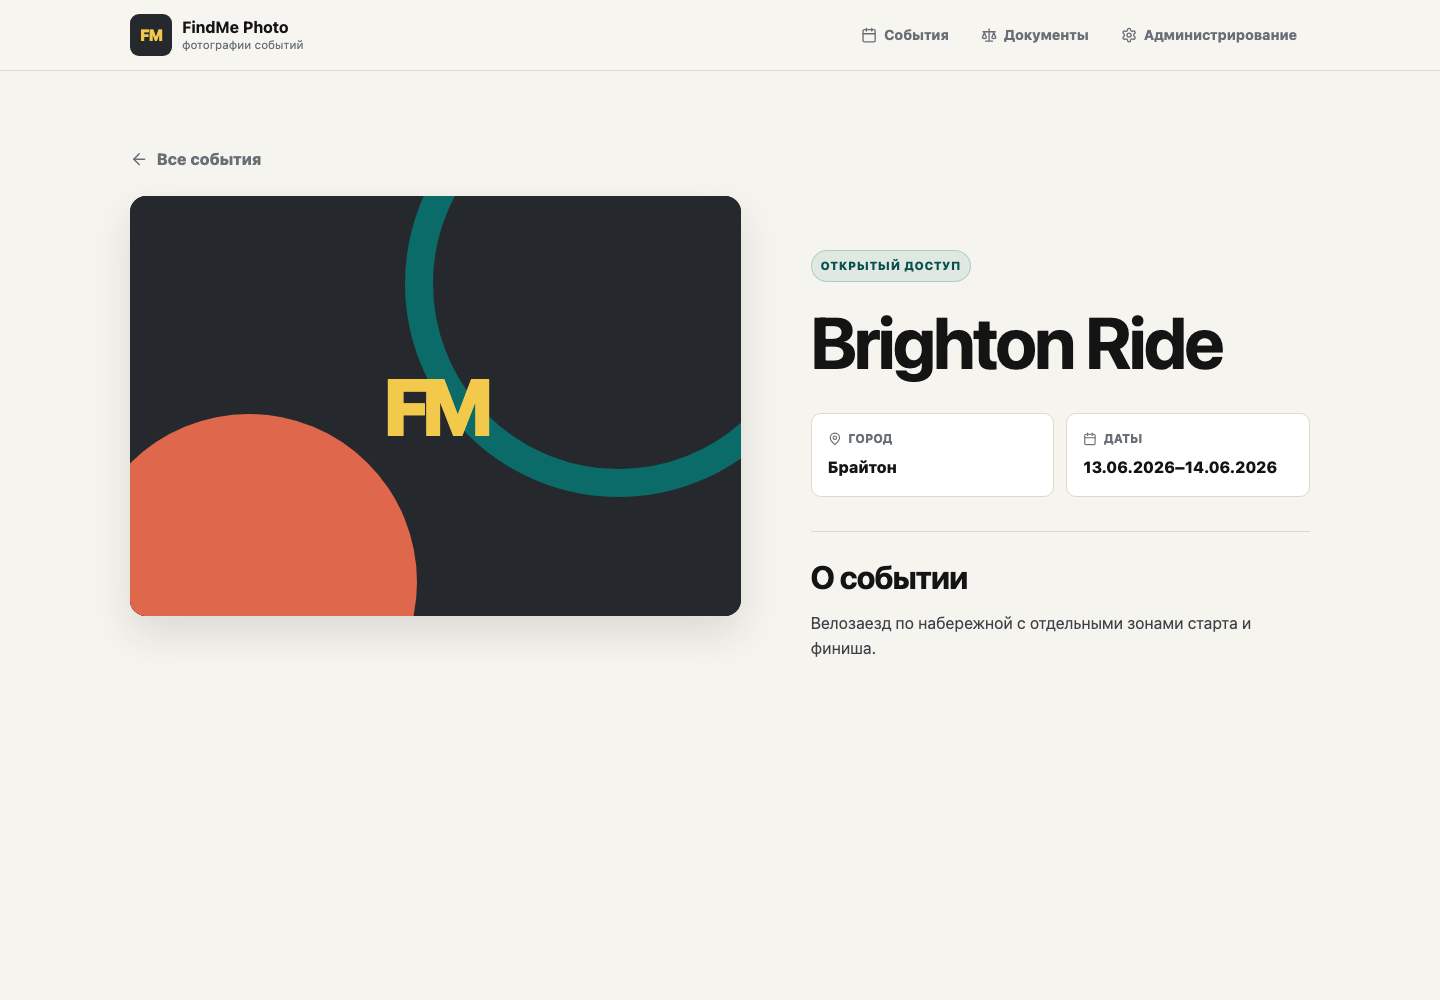
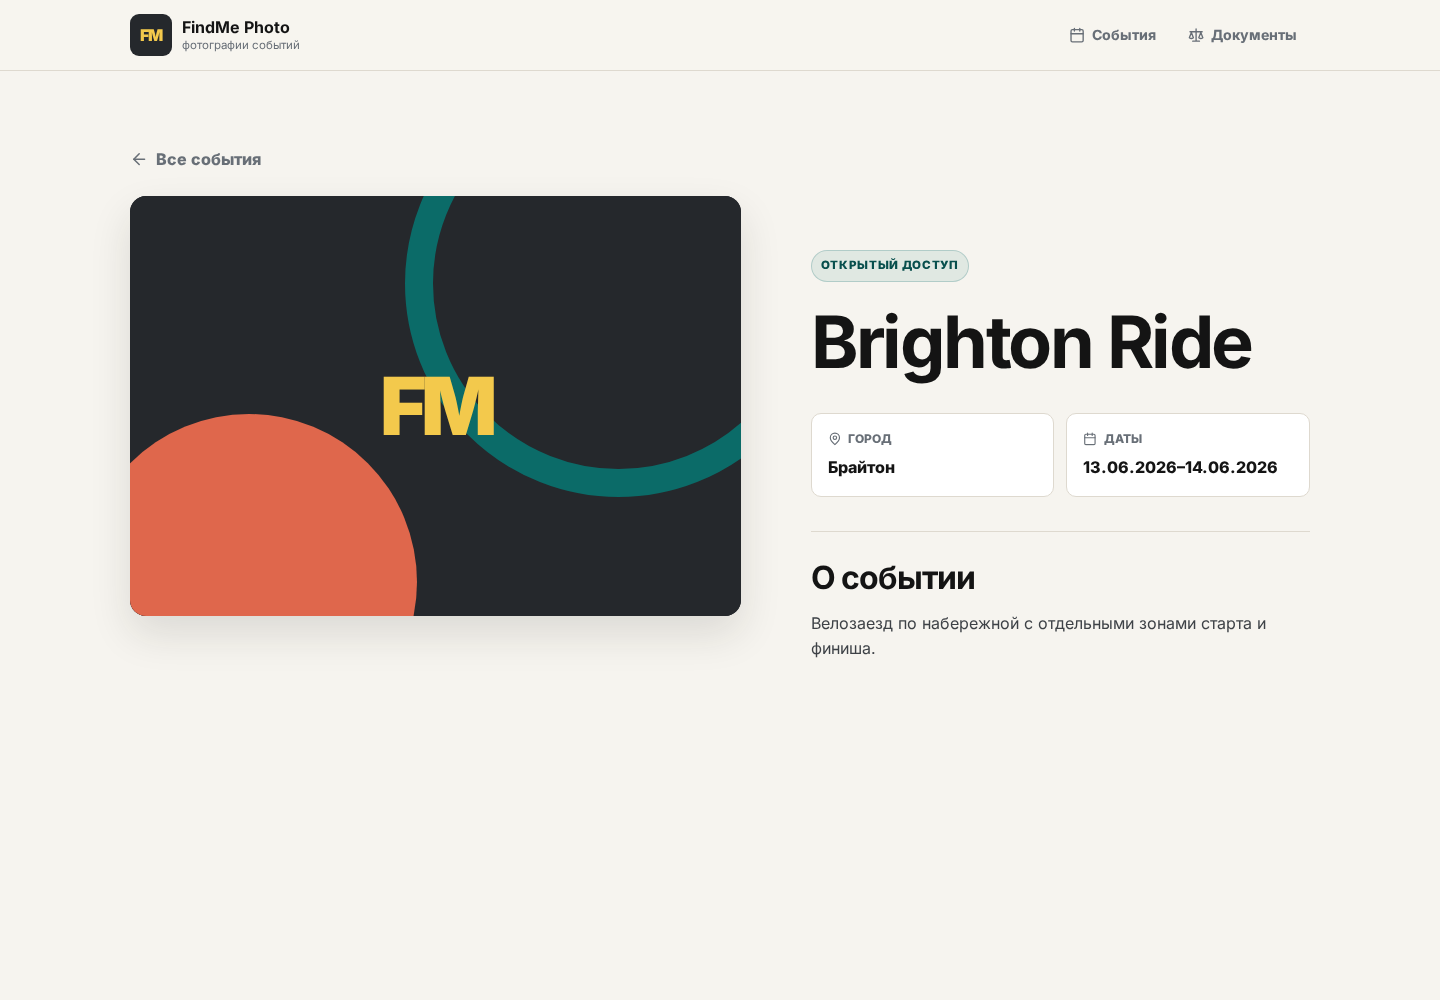
fix: hide service navigation from visitors

diff --git a/src/backend/templates/ui/base.html b/src/backend/templates/ui/base.html
@@ -35,10 +35,12 @@
             <svg class="icon" aria-hidden="true"><use href="{{ ui_icons }}#scale"></use></svg>
             <span>Документы</span>
           </a>
-          <a href="{% url 'admin:index' %}" aria-label="Администрирование">
-            <svg class="icon" aria-hidden="true"><use href="{{ ui_icons }}#settings"></use></svg>
-            <span>Администрирование</span>
-          </a>
+          {% if request.user.is_staff %}
+            <a href="{% url 'admin:index' %}" aria-label="Администрирование">
+              <svg class="icon" aria-hidden="true"><use href="{{ ui_icons }}#settings"></use></svg>
+              <span>Администрирование</span>
+            </a>
+          {% endif %}
         </nav>
       </header>
       <main id="main-content" class="page-shell" tabindex="-1">

diff --git a/src/backend/picflow/tests/test_views.py b/src/backend/picflow/tests/test_views.py
@@ -2,6 +2,8 @@ from datetime import date, timedelta
 from html.parser import HTMLParser
 from urllib.parse import urlsplit
 
+from django.contrib.auth import get_user_model
+from django.contrib.auth.models import Permission
 from django.test import SimpleTestCase, TestCase, modify_settings, override_settings
 from django.urls import reverse
 
@@ -42,7 +44,7 @@ class PublicShellTests(SimpleTestCase):
         self.assertContains(response, 'href="/static/ui/catalog.css"')
         self.assertContains(response, f'href="{reverse("event_catalog")}"')
         self.assertContains(response, f'href="{reverse("legal")}"')
-        self.assertContains(response, f'href="{reverse("admin:index")}"')
+        self.assertNotContains(response, f'href="{reverse("admin:index")}"')
         self.assertNotContains(response, "Прототип")
         for section_id in ("offer", "terms", "personal", "cookies"):
             self.assertContains(response, f'id="{section_id}"')
@@ -140,7 +142,44 @@ class PageTests(TestCase):
                 self.assertContains(response, 'href="/static/ui/catalog.css"')
                 self.assertContains(response, f'href="{reverse("event_catalog")}"')
                 self.assertContains(response, f'href="{reverse("legal")}"')
-                self.assertContains(response, f'href="{reverse("admin:index")}"')
+                self.assertNotContains(response, f'href="{reverse("admin:index")}"')
+
+    @override_settings(PHOTO_UPLOAD_ENABLED=True)
+    def test_service_navigation_matches_user_capabilities(self) -> None:
+        upload_permission = Permission.objects.get(
+            content_type__app_label="ingestion", codename="upload_photos"
+        )
+        users = get_user_model().objects
+        ordinary_user = users.create_user(username="ordinary")
+        photographer = users.create_user(username="photographer")
+        staff_user = users.create_user(username="staff", is_staff=True)
+        staff_photographer = users.create_user(username="staff-photographer", is_staff=True)
+        photographer.user_permissions.add(upload_permission)
+        staff_photographer.user_permissions.add(upload_permission)
+
+        cases = (
+            (ordinary_user, False, False),
+            (photographer, True, False),
+            (staff_user, False, True),
+            (staff_photographer, True, True),
+        )
+
+        for user, sees_upload, sees_admin in cases:
+            with self.subTest(username=user.username):
+                self.client.force_login(user)
+                response = self.client.get(reverse("event_catalog"))
+
+                if sees_upload:
+                    self.assertContains(response, f'href="{reverse("upload_page")}"')
+                else:
+                    self.assertNotContains(response, f'href="{reverse("upload_page")}"')
+
+                if sees_admin:
+                    self.assertContains(response, f'href="{reverse("admin:index")}"')
+                else:
+                    self.assertNotContains(response, f'href="{reverse("admin:index")}"')
+
+                self.client.logout()
 
     def test_event_detail_returns_404_for_draft_event(self) -> None:
         draft = self.make_event(